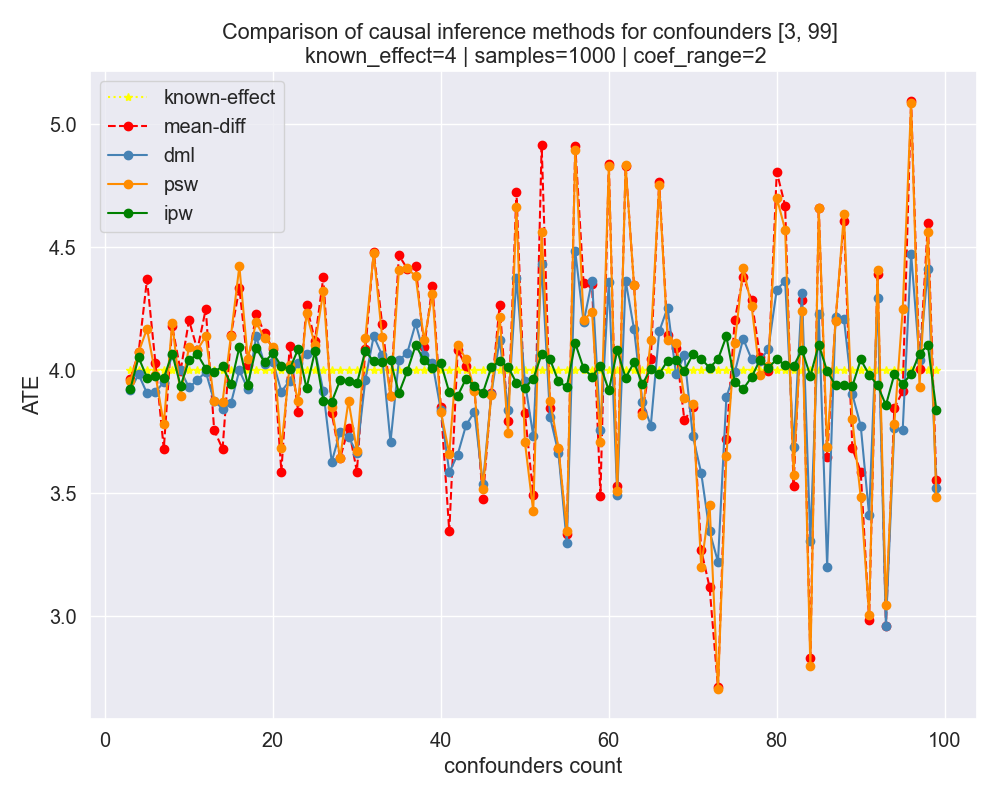
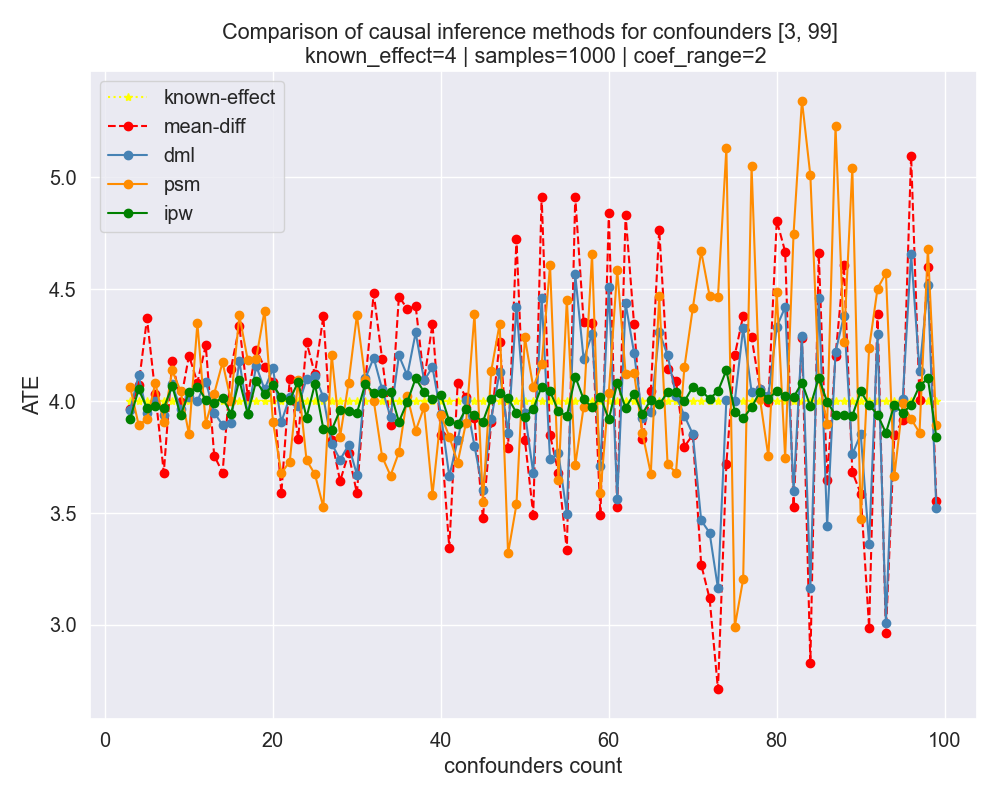
Improved dml and propensity scores matching

diff --git a/ate_evaluations.py b/ate_evaluations.py
@@ -4,7 +4,7 @@ from matplotlib import pyplot as plt
 from dataclasses import dataclass, asdict
 from typing import Dict, List, Literal, Optional
 from sklearn.linear_model import LinearRegression, LogisticRegression
-from sklearn.preprocessing import StandardScaler, MinMaxScaler
+from sklearn.neighbors import NearestNeighbors
 from sklearn.ensemble import RandomForestRegressor
 import doubleml as dml
 from statsmodels.api import WLS, add_constant
@@ -27,15 +27,17 @@ class ATEEvaluations:
         self,
         seed,
         outcome_type: Literal["binary", "continuous"],
-        data: Optional[pd.DataFrame] = None,
+        data: Optional[CausalSetUp] = None,
     ):
         self.outcome_type = outcome_type
-        if data is not None:
-            self.data = data
+        self.data = data if data is not None else None
         self.seed = seed
-        self.synth_data: CausalSetUp = None
-        self.known_confounders_coef = None
+        self.synth_data: CausalSetUp = None 
+        self.known_confounders_coef = None 
         self.known_effect = None
+        self.num_confounders: int = (
+            None if self.data is None else len(data.confounders.T)
+        )
 
     def data_to_df(self, data: Optional[CausalSetUp] = None):
         if data is None or isinstance(data, CausalSetUp):
@@ -60,13 +62,24 @@ class ATEEvaluations:
     def dml(
         self,
         data: CausalSetUp,
-        model1=RandomForestRegressor(),
-        model2=RandomForestRegressor(),
+        model1=None,
+        model2=None,
+        model3=None,
     ):
+        learner = RandomForestRegressor(
+            n_estimators=100,
+            max_features=self.num_confounders,
+            max_depth=5,
+            min_samples_leaf=2,
+        )
+        model1 = learner if model1 is None else model1
+        model2 = learner if model2 is None else model2
+        model3 = learner if model3 is None else model3
         dml_data = dml.DoubleMLData.from_arrays(
             data.confounders, data.outcome, data.treatment
         )
-        dml_model = dml.DoubleMLPLR(dml_data, model1, model2)
+        dml_model = dml.DoubleMLPLR(dml_data, model1, model2, n_folds=5, n_rep=5)
+        # dml_model = dml.DoubleMLPLR(dml_data, model1, model2, model3, n_folds=3, score="IV-type", n_rep=5)
         dml_model.fit(n_jobs_cv=10)
         return dml_model.coef[0], dml_model.se[0], dml_model.pval[0]
 
@@ -89,20 +102,48 @@ class ATEEvaluations:
         model = WLS(data.outcome, X_ipw, weights=weights).fit()
         return model.params[-1], model.bse[-1], model.pvalues[-1]
 
+    def propensity_score2(self, data: CausalSetUp):
+        df = self.data_to_df(data)
+        X = df.drop(columns=["outcome", "treatment", "index"])
+        y = df["treatment"]
+        model = LogisticRegression(solver="lbfgs", max_iter=1000)
+        model.fit(X, y)
+        df["propensity_score"] = model.predict_proba(X)[:, 1]
+        treated = df[df["treatment"] == 1].copy()
+        control = df[df["treatment"] == 0].copy()
+        nn = NearestNeighbors(n_neighbors=1, algorithm="ball_tree")
+        nn.fit(control[["propensity_score"]])
+        distances, indices = nn.kneighbors(treated[["propensity_score"]])
+        treated["matched_ID"] = control.iloc[indices.flatten()]["index"].values
+        treated["outcome_untreated"] = control.iloc[indices.flatten()]["outcome"].values
+        diff = treated["outcome"] - treated["outcome_untreated"]
+        ate, std = diff.mean(), diff.std()
+        return ate
+
     def propensity_score(self, data: CausalSetUp):
-        # FIXME: I do not think this is correct implementation
         df = self.data_to_df(data)
         psm = PsmPy(df, treatment="treatment", indx="index", exclude=["outcome"])
+        # TODO: it might be best to create my own psm library since this one has a lot of issues
         try:
             psm.logistic_ps(balance=True)
         except ValueError:
             psm.logistic_ps(balance=False)
-        psm.knn_matched(matcher="propensity_logit", replacement=False)
+        psm.knn_matched(matcher="propensity_score", replacement=True)
         matched = psm.df_matched.merge(df[["outcome", "index"]], on="index")
         if self.outcome_type == "binary":
-            treated = matched[matched["treatment"] == 1]["outcome"]
-            control = matched[matched["treatment"] == 0]["outcome"]
-            ate = treated.mean() - control.mean()
+            pair_diffs = matched[matched["treatment"] == 1]
+            try:
+                pair_diffs["outcome_untreated"] = [
+                    matched[matched["index"] == row["matched_ID"]]["outcome"].iloc[0]
+                    for _, row in pair_diffs.iterrows()
+                ]
+            except IndexError:
+                pair_diffs["outcome_untreated"] = [
+                    matched[matched["matched_ID"] == row["index"]]["outcome"].iloc[0]
+                    for _, row in pair_diffs.iterrows()
+                ]
+            diff = pair_diffs["outcome"] - pair_diffs["outcome_untreated"]
+            ate, std = diff.mean(), diff.std()
             return ate
         elif self.outcome_type == "continuous":
             pass
@@ -154,6 +195,7 @@ class ATEEvaluations:
             + np.random.randn(n_samples)
         )
         self.synth_data = causal_setup
+        self.num_confounders = len(causal_setup.confounders.T)
         return self
 
     def evaluate(self, data: Optional[CausalSetUp] = None):
@@ -164,7 +206,7 @@ class ATEEvaluations:
             "known-effect": self.known_effect,
             "mean-diff": self.mean_diff(data),
             "dml": self.dml(data)[0],
-            "psw": self.propensity_score(data),
+            "psw": self.propensity_score2(data),
             "ipw": self.inverse_prob(data)[0],
         }
         return results_ate
@@ -233,7 +275,7 @@ class ATEEvaluations:
             marker="o",
             linestyle="-",
             color="darkorange",
-            label="psw",
+            label="psm",
         )
         plt.plot(
             confounders,
@@ -253,25 +295,42 @@ class ATEEvaluations:
         # plt.show()
         plt.savefig(f"./exports/eval_coerange{coerange}_ke{ke}_s{sample}.png")
 
-    def export(self): 
+    def export(self):
         pass
 
 
 if __name__ == "__main__":
     ate_eval = ATEEvaluations(seed=47, outcome_type="binary", data=None)
+    coeranges = [2, 4, 8, 16, 32, 64]
+    coeranges = [2, 4, 8, 16, 32, 64, 128, 256]
+    confounders = [i for i in range(3, 20)]
     if False:
-        synth_data = ate_eval.create_synth(
-            n_samples=750, n_confounders=5, known_effect=1.5, coe_range=7
-        ).synth_data
-        diff = ate_eval.mean_diff(synth_data)
-        df = ate_eval.data_to_df()
-        results = ate_eval.evaluate()
+        results = []
+        mean_diffs = []
+        # for coerange in coeranges:
+        for confounder in confounders:
+            synth_data = ate_eval.create_synth(
+                n_samples=1000, n_confounders=confounder, known_effect=4, coe_range=16
+            ).synth_data
+            mean_diffs.append(ate_eval.mean_diff(synth_data))
+            # results.append(ate_eval.propensity_score(synth_data))
+            results.append(ate_eval.dml(synth_data)[0])
+        print([float(round(i, 3)) for i in mean_diffs])
+        print([float(round(i, 3)) for i in results])
     # testing evaluates()
-    confounders = [i for i in range(3, 100)]
-    for coerange in [2, 4, 8, 16, 32, 64, 128, 256]:
-        results = ate_eval.evaluates(
-            confounders=confounders, n_samples=1000, known_effect=4, coe_range=coerange
-        )
-        ate_eval.affichage(results, confounders, coerange=coerange, ke=4, sample=1000)
+    if True:
+        confounders = [i for i in range(3, 100)]
+        coeranges = [64, 128, 256]
+        coeranges = [2, 4, 8, 16, 32, 64, 128, 256]
+        for coerange in coeranges:
+            results = ate_eval.evaluates(
+                confounders=confounders,
+                n_samples=1000,
+                known_effect=4,
+                coe_range=coerange,
+            )
+            ate_eval.affichage(
+                results, confounders, coerange=coerange, ke=4, sample=1000
+            )
 
     print("END")
